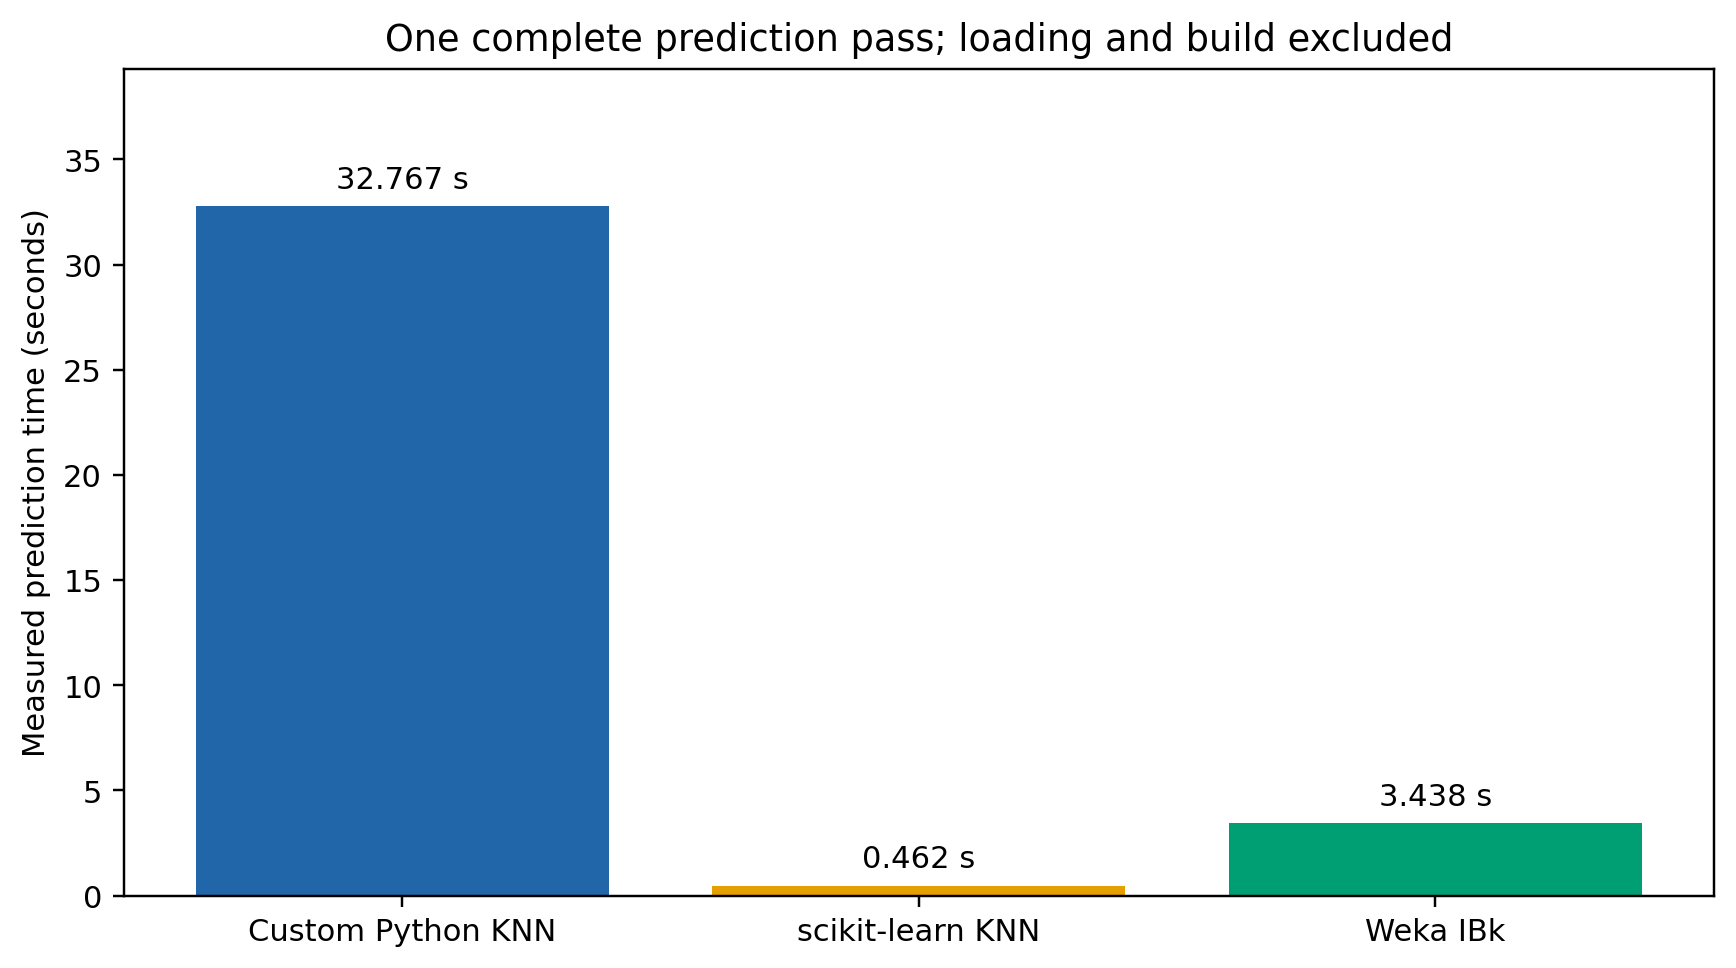
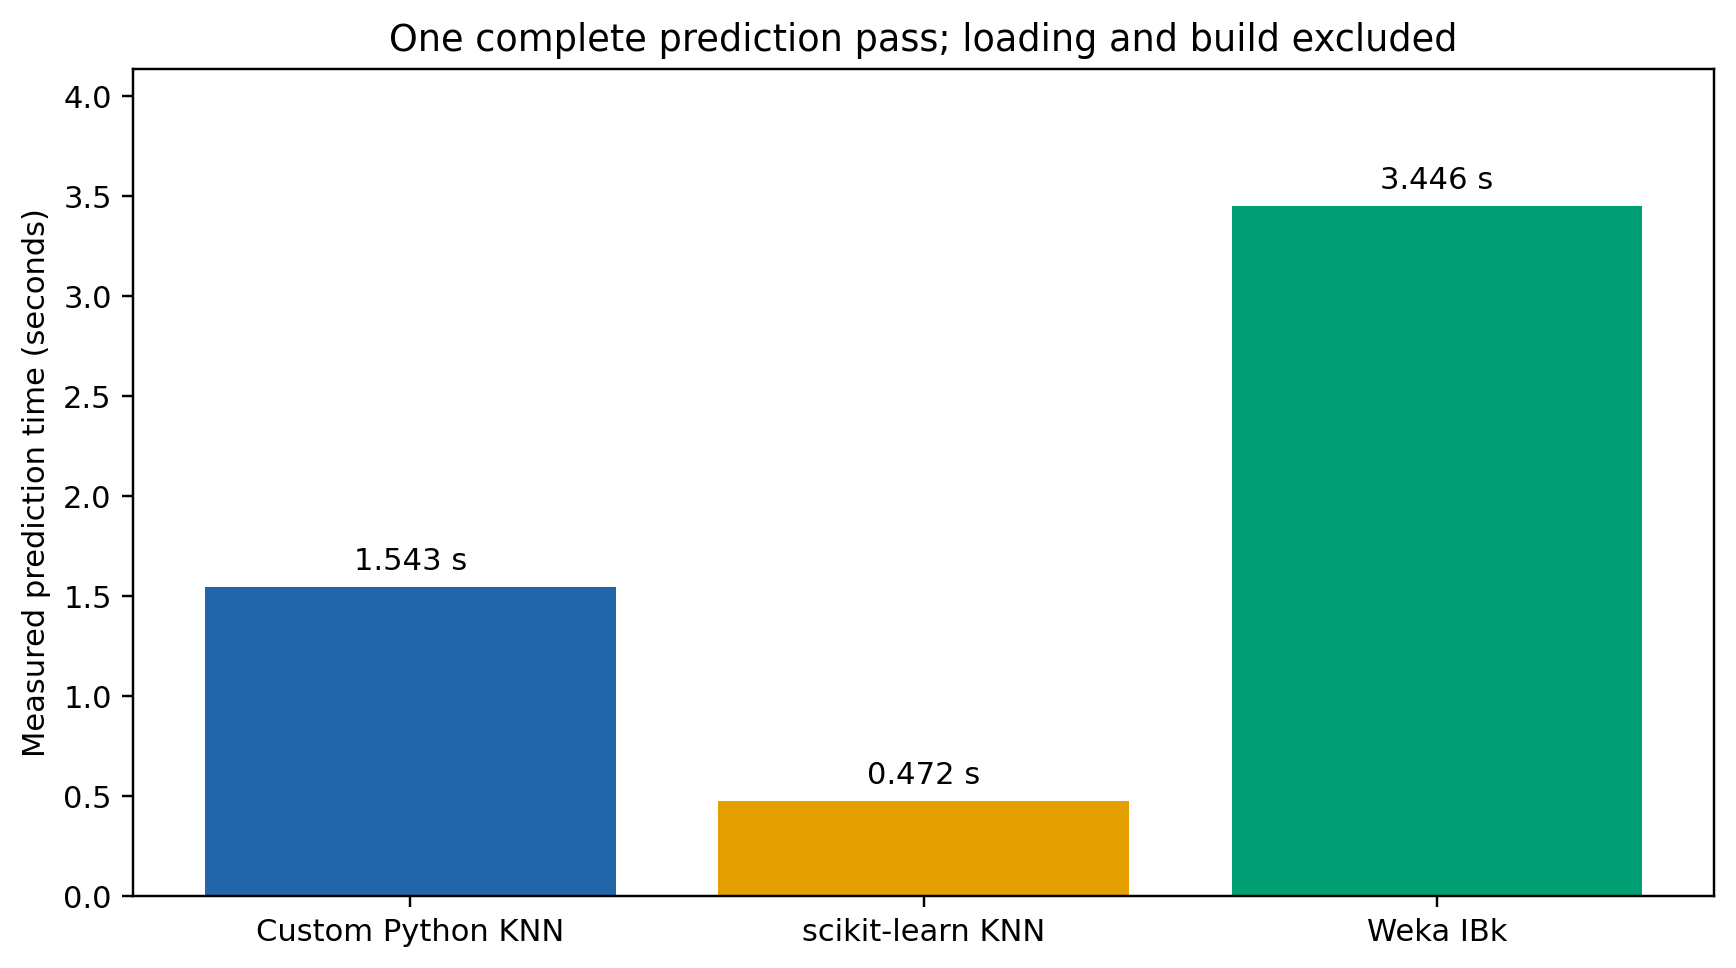
Initial commit

diff --git a/src/custom_knn/classifier.py b/src/custom_knn/classifier.py
@@ -47,57 +47,175 @@ class CustomKNNClassifier:
         if not np.isin(y, [0, 1]).all():
             raise ValueError("y must contain finite binary labels 0 or 1")
         self.X_ = np.array(X, dtype=np.float64, order="C", copy=True)
+        self._train_squared_norms = np.sum(self.X_ * self.X_, axis=1)
         self.y_ = y.astype(np.int64, copy=True)
         self.classes_ = np.array([0, 1])
         return self
 
-    def _squared_distances(self, queries):
-        squared = np.zeros((len(queries), len(self.X_)), dtype=np.float64)
+    def _squared_distances(self, queries, workspace=None):
+        with np.errstate(over="raise", invalid="raise"):
+            query_squared_norms = np.sum(queries * queries, axis=1)
+            if workspace is None:
+                squared_distances = queries @ self.X_.T
+            else:
+                squared_distances = workspace[:len(queries)]
+                np.matmul(queries, self.X_.T, out=squared_distances)
+
+            squared_distances *= -2.0
+            squared_distances += query_squared_norms[:, None]
+            squared_distances += self._train_squared_norms[None, :]
+
+        np.maximum(squared_distances, 0.0, out=squared_distances)
+        return squared_distances
+
+    def _direct_squared_distances(self, query):
+        squared_distances = np.zeros(len(self.X_), dtype=np.float64)
         with np.errstate(over="raise", invalid="raise"):
             for feature in range(self.X_.shape[1]):
-                difference = queries[:, feature, None] - self.X_[None, :, feature]
-                squared += difference * difference
-        np.maximum(squared, 0.0, out=squared)
-        return squared
+                difference = query[feature] - self.X_[:, feature]
+                squared_distances += difference * difference
 
-    def _select_neighbours(self, squared_distances):
-        nearest_indices = np.argsort(
-            squared_distances,
-            axis=1,
-            kind="stable",
-        )[:, :self.n_neighbors]
-        nearest_squared_distances = np.take_along_axis(
-            squared_distances,
-            nearest_indices,
-            axis=1,
+        np.maximum(squared_distances, 0.0, out=squared_distances)
+        return squared_distances
+
+    def _select_exact_neighbours(self, exact_distances):
+        partial_indices = np.argpartition(
+            exact_distances,
+            kth=self.n_neighbors - 1,
+        )[:self.n_neighbors]
+        threshold = exact_distances[partial_indices].max()
+
+        closer_indices = np.flatnonzero(exact_distances < threshold)
+        equal_indices = np.flatnonzero(exact_distances == threshold)
+        remaining = self.n_neighbors - len(closer_indices)
+        selected_indices = np.concatenate(
+            (closer_indices, equal_indices[:remaining])
         )
-        distances = np.sqrt(nearest_squared_distances)
-        return distances, nearest_indices
+
+        selected_distances = exact_distances[selected_indices]
+        selected_order = np.lexsort((selected_indices, selected_distances))
+        selected_indices = selected_indices[selected_order]
+        selected_distances = selected_distances[selected_order]
+        return selected_distances, selected_indices
+
+    def _select_neighbours(self, squared_distances, queries):
+        training_rows = len(self.X_)
+        query_rows = len(queries)
+
+        if self.n_neighbors == training_rows:
+            nearest_indices = np.empty(
+                (query_rows, training_rows),
+                dtype=np.int64,
+            )
+            nearest_squared_distances = np.empty_like(
+                nearest_indices,
+                dtype=np.float64,
+            )
+            for row_number, query in enumerate(queries):
+                exact_distances = self._direct_squared_distances(query)
+                selected_distances, exact_indices = self._select_exact_neighbours(
+                    exact_distances
+                )
+                nearest_indices[row_number] = exact_indices
+                nearest_squared_distances[row_number] = selected_distances
+
+            return nearest_squared_distances, nearest_indices
+
+        nearest_indices = np.empty(
+            (query_rows, self.n_neighbors),
+            dtype=np.int64,
+        )
+        nearest_squared_distances = np.empty_like(
+            nearest_indices,
+            dtype=np.float64,
+        )
+        query_norms = np.sum(queries * queries, axis=1)
+        float64_epsilon = np.finfo(np.float64).eps
+
+        for row_number, row_distances in enumerate(squared_distances):
+            candidate_indices = np.argpartition(
+                row_distances,
+                kth=self.n_neighbors,
+            )[:self.n_neighbors + 1]
+            candidate_distances = row_distances[candidate_indices]
+            candidate_order = np.lexsort(
+                (candidate_indices, candidate_distances)
+            )
+            candidate_indices = candidate_indices[candidate_order]
+            candidate_distances = candidate_distances[candidate_order]
+
+            kth_index = candidate_indices[self.n_neighbors - 1]
+            next_index = candidate_indices[self.n_neighbors]
+            boundary_gap = (
+                candidate_distances[self.n_neighbors]
+                - candidate_distances[self.n_neighbors - 1]
+            )
+            boundary_training_norm = max(
+                self._train_squared_norms[kth_index],
+                self._train_squared_norms[next_index],
+            )
+            boundary_scale = max(
+                1.0,
+                query_norms[row_number] + boundary_training_norm,
+            )
+            boundary_tolerance = 64 * float64_epsilon * boundary_scale
+
+            if boundary_gap <= boundary_tolerance:
+                exact_distances = self._direct_squared_distances(
+                    queries[row_number]
+                )
+                selected_distances, selected_indices = (
+                    self._select_exact_neighbours(exact_distances)
+                )
+            else:
+                selected_indices = candidate_indices[:self.n_neighbors]
+                selected_distances = candidate_distances[:self.n_neighbors]
+
+            nearest_indices[row_number] = selected_indices
+            nearest_squared_distances[row_number] = selected_distances
+
+        return nearest_squared_distances, nearest_indices
 
     def _vote_probabilities(self, neighbour_indices):
         probability_one = self.y_[neighbour_indices].sum(axis=1) / self.n_neighbors
         return np.column_stack((1.0 - probability_one, probability_one))
 
-    def kneighbors(self, X):
+    def _find_neighbours(self, X):
         if not hasattr(self, "X_"):
             raise ValueError("fit must be called before prediction or neighbor queries")
         queries = self._validate_X(X)
         if queries.shape[1] != self.X_.shape[1]:
             raise ValueError("Query feature count differs from training feature count")
+
         indices = np.empty((len(queries), self.n_neighbors), dtype=np.int64)
-        distances = np.empty_like(indices, dtype=np.float64)
+        nearest_squared_distances = np.empty_like(indices, dtype=np.float64)
+        workspace_rows = min(self.batch_size, len(queries))
+        distance_workspace = np.empty(
+            (workspace_rows, len(self.X_)),
+            dtype=np.float64,
+        )
 
         for start in range(0, len(queries), self.batch_size):
             batch = queries[start:start + self.batch_size]
-            squared_distances = self._squared_distances(batch)
-            batch_distances, batch_indices = self._select_neighbours(squared_distances)
+            squared_distances = self._squared_distances(batch, distance_workspace)
+            batch_squared_distances, batch_indices = self._select_neighbours(
+                squared_distances,
+                batch,
+            )
             indices[start:start + len(batch)] = batch_indices
-            distances[start:start + len(batch)] = batch_distances
+            nearest_squared_distances[start:start + len(batch)] = (
+                batch_squared_distances
+            )
 
+        return nearest_squared_distances, indices
+
+    def kneighbors(self, X):
+        nearest_squared_distances, indices = self._find_neighbours(X)
+        distances = np.sqrt(nearest_squared_distances)
         return distances, indices
 
     def predict_proba(self, X):
-        _, neighbour_indices = self.kneighbors(X)
+        _, neighbour_indices = self._find_neighbours(X)
         return self._vote_probabilities(neighbour_indices)
 
     def predict(self, X):

diff --git a/src/common/config.py b/src/common/config.py
@@ -11,5 +11,5 @@ TEST_SIZE = 0.20
 CV_FOLDS = 5
 K_VALUES = tuple(range(1, 32, 2))
 TIE_TOLERANCE = 1e-12
-DEFAULT_BATCH_SIZE = 256
+DEFAULT_BATCH_SIZE = 128
 CATEGORICAL_COLUMNS = ("SEX", "EDUCATION", "MARRIAGE")

diff --git a/README.md b/README.md
@@ -137,14 +137,33 @@ Cross-validation selected `k=19`. The following values are from the included
 experiment result tables; prediction time is machine-dependent and varies
 between runs.
 
-Before future optimisation work, the unchanged custom implementation measured 33.288 seconds at batch size 256.
-Its compact baseline is in `results/custom_knn_baseline.csv`; no KNN performance optimisation has been applied.
-
 | Implementation | k | Accuracy | Precision | Recall | F1 | Balanced accuracy | ROC-AUC | Average precision | Prediction time (s) |
 |---|---:|---:|---:|---:|---:|---:|---:|---:|---:|
-| Custom Python KNN | 19 | 0.8088 | 0.6253 | 0.3384 | 0.4391 | 0.6404 | 0.7353 | 0.4853 | 32.851 |
-| scikit-learn | 19 | 0.8092 | 0.6271 | 0.3384 | 0.4395 | 0.6406 | 0.7354 | 0.4855 | 0.416 |
-| Weka IBk | 19 | 0.8090 | 0.6262 | 0.3384 | 0.4393 | 0.6405 | 0.7353 | 0.4856 | 3.463 |
+| Custom Python KNN | 19 | 0.8088 | 0.6253 | 0.3384 | 0.4391 | 0.6404 | 0.7353 | 0.4853 | 2.480 |
+| scikit-learn | 19 | 0.8092 | 0.6271 | 0.3384 | 0.4395 | 0.6406 | 0.7354 | 0.4855 | 0.952 |
+| Weka IBk | 19 | 0.8090 | 0.6262 | 0.3384 | 0.4393 | 0.6405 | 0.7353 | 0.4856 | 5.928 |
+
+## Custom KNN Performance Improvement
+
+The original custom implementation used a straightforward feature-by-feature
+distance calculation and sorted every training row. The optimised version
+precomputes training-vector norms, calculates exact squared Euclidean distances
+with NumPy matrix operations, and uses partial top-k selection. Square roots are
+only calculated when `kneighbors()` requests actual distances. It remains an
+exact brute-force KNN classifier with deterministic tie handling.
+
+The second optimisation pass reuses one distance workspace and partitions one
+query row at a time, avoiding a large temporary index matrix. Its exact fallback
+also uses partial selection instead of sorting all training rows. Benchmarking
+selected batch size 128 because it had the fastest median and used half the
+workspace memory of the effectively tied batch size 256.
+
+On the same processed data, the five-run single-thread median decreased from
+1.980 seconds for v1 to 1.505 seconds for v2, with a range of 1.496–1.512
+seconds. This is 1.32x faster than v1 and 22.11x faster than the original
+33.281-second baseline. Predicted classes and class-1 probabilities matched v1
+for all 6,000 test rows. The measured comparison is stored in
+`results/custom_knn_optimization.csv`.
 
 Detailed values are stored in `results/metrics_comparison.csv`, while confusion
 counts and pairwise agreement are in their corresponding compact CSV files.
